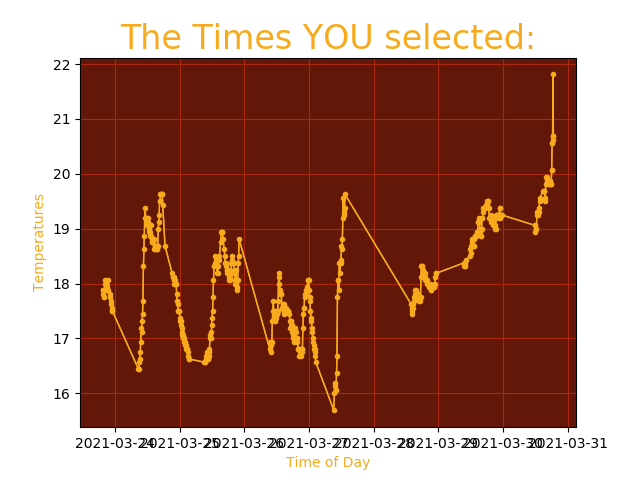
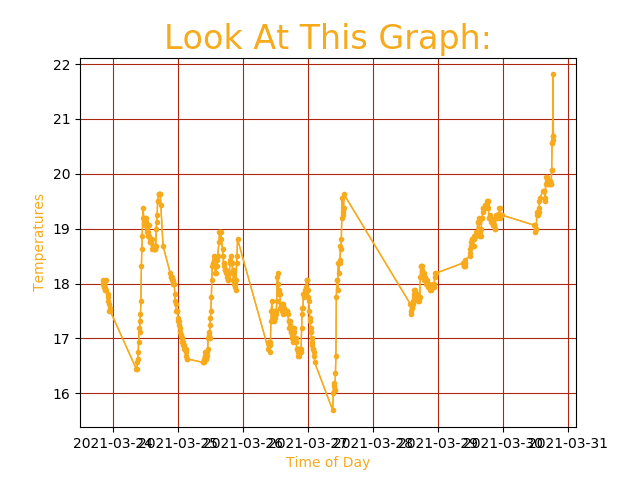
added fetch, emit and html for what the outside temperature feels like

diff --git a/static/application.js b/static/application.js
@@ -32,16 +32,18 @@ $(document).ready(function() {
     })
 
     socket.on('newoutsideTemp', function(msg) {
-       
-        console.log(msg.outsideTemp)
 
         img = "<p>The Temperature Outside is : " + msg.outsideTemp.toString() + '&#176; C </p>'         
-        
-
         $('#outside-log').html(img);
       
     
     })
- 
+
+    socket.on('newOutsideFeelsLike', function(msg){
+
+        outside = '<p> But outside it FEELS like : ' + msg.outsideFeelsLikeTemperature.toString() + '&#176; C </p>'
+        $('#outside-feel-log').html(outside)
+    })
+   
 })
 

diff --git a/templates/base.html b/templates/base.html
@@ -23,6 +23,7 @@
         <div id = "temp-flex"> the temperature is :  <div id="temp-log"></div> &#176; C
         </div></h1>
         <div id="outside-log"></div>
+        <div id="outside-feel-log"></div>
         <input type = "button" onclick="getHistoricalGraph()" value="Get All">
     <div id = "graph-log">
         

diff --git a/app.py b/app.py
@@ -1,15 +1,12 @@
-from flask_socketio import SocketIO, emit
-from flask import Flask, render_template, url_for, copy_current_request_context, jsonify
-from random import random
-from time import sleep
-from threading import Thread, Event
 from datetime import date, datetime, timedelta
-from w1thermsensor import W1ThermSensor
-from utils.database_service import add_temp, get_time_of_most_recent_temp, get_temps, get_timestamps, get_temperatures_from_range
-from testplotting import make_plot
-from markupsafe import escape
+from flask import Flask, render_template, url_for, copy_current_request_context, jsonify
+from flask_socketio import SocketIO, emit
 from graphmaker import make_plot_from_range
-from utils.open_weather_map_service import get_outside_temp
+from threading import Thread, Event
+from time import sleep
+from utils.database_service import add_temperature, get_time_of_most_recent_temperature, get_all_temperatures, get_all_timestamps, get_temperatures_from_range
+from utils.open_weather_map_service import get_outside_temp, get_outside_feels_like_temperature
+from w1thermsensor import W1ThermSensor
 
 app = Flask(__name__)
 app.config['SECRET_KEY'] = 'secret!'
@@ -32,8 +29,8 @@ def time_and_temp_background_task():
         socketio.emit('newTemperature', {'temperature' : temperature}, namespace='/test')
         socketio.emit('newTime', {'time' : str(timeNow)}, namespace='/test')
         
-        if (timeNow.minute % 10 == 0) and (timeNow.minute != get_time_of_most_recent_temp().minute):
-            add_temp(temperature, timeNow)
+        if (timeNow.minute % 10 == 0) and (timeNow.minute != get_time_of_most_recent_temperature().minute):
+            add_temperature(temperature, timeNow)
             graph = make_plot_from_range(get_last_7_days())
             if reloadGraph:
                 socketio.emit('newGraph', {'graph': graph}, namespace='/test')
@@ -83,8 +80,11 @@ def test_connect():
 
     print('Client connected')
 
-    graph = make_plot()
+    graph = make_plot_from_range(get_last_7_days())
     socketio.emit('newGraph', {'graph': graph}, namespace = '/test')
+
+    outsideFeelsLikeTemperature = get_outside_feels_like_temperature()
+    socketio.emit('newOutsideFeelsLike', {'outsideFeelsLikeTemperature': outsideFeelsLikeTemperature}, namespace='/test')
 
     outsideTemp = get_outside_temp()
     socketio.emit('newoutsideTemp', {'outsideTemp' :  outsideTemp}, namespace='/test')

diff --git a/utils/database_service.py b/utils/database_service.py
@@ -1,16 +1,11 @@
 import psycopg2
 from datetime import date, datetime
-from w1thermsensor import W1ThermSensor
 from typing import List, Tuple
-
-sensor = W1ThermSensor() 
 
 conn = psycopg2.connect('dbname=TempSense')
 cur = conn.cursor()
 
-
-
-def add_temp(temp, timestamp):
+def add_temperature(temp, timestamp):
     query = """
     INSERT INTO
         temp
@@ -34,7 +29,7 @@ def get_temperatures_from_range(startTime:datetime, endTime:datetime) -> List[Tu
     return cur.fetchall()
 
 
-def get_time_of_most_recent_temp():
+def get_time_of_most_recent_temperature():
     query = """
     SELECT timestamp FROM 
         temp
@@ -46,7 +41,7 @@ def get_time_of_most_recent_temp():
     return cur.fetchall()[0][0]
 
 
-def get_temps():
+def get_all_temperatures():
     query = """
     SELECT 
         temp
@@ -57,7 +52,7 @@ def get_temps():
     return cur.fetchall()
 
 
-def get_timestamps():
+def get_all_timestamps():
     query = """
     SELECT 
         timestamp
@@ -66,37 +61,3 @@ def get_timestamps():
     """
     cur.execute(query)
     return cur.fetchall()
-
-def temp_list():
-    new_list = []
-    temps_list = get_temps()
-
-    for temps in temps_list:
-        new_list.append(float(temps[0]))
-    return new_list
-
-
-def timestamp_list():
-    new_list = []
-    timestamps = get_timestamps()
-
-    for times in timestamps:
-        new_list.append(times[0].strftime("%x") + " " + times[0].strftime("%X"))
-    return new_list
-
-
-
-temp = sensor.get_temperature()
-timestamp = datetime.now().replace(microsecond=0)
-
-# add_temp(temp, timestamp)
-
-cur.execute('select * from temp')
-results = cur.fetchall()
-
-
-timestr = '2021-03-23T17:38'
-datetime_obj = datetime.strptime(timestr, '%Y-%m-%dT%H:%M')
-
-# for result in results:
-#     print(result)

diff --git a/utils/open_weather_map_service.py b/utils/open_weather_map_service.py
@@ -5,3 +5,9 @@ def get_outside_temp():
     url = 'https://api.openweathermap.org/data/2.5/weather?id=2648579&appid=ab3b10ceeb32e9e2635906ef718eec7f&units=metric'
     response = reqs.get(url, data)
     return response.json()['main']['temp']
+
+def get_outside_feels_like_temperature():
+    data = {}
+    url = 'https://api.openweathermap.org/data/2.5/weather?id=2648579&appid=ab3b10ceeb32e9e2635906ef718eec7f&units=metric'
+    response = reqs.get(url, data)
+    return response.json()['main']['feels_like']

diff --git a/graphmaker.py b/graphmaker.py
@@ -29,7 +29,7 @@ def make_plot_from_range(temperatureHistory: list):
 
     plt.plot(y, x, color= '#F6AA1C', lw=1)
 
-    plt.title('The Times YOU selected:', color= '#F6AA1C')
+    plt.title('Look At This Graph:', color= '#F6AA1C')
     plt.ylabel('Temperatures', color= '#F6AA1C')
     plt.xlabel('Time of Day', color= '#F6AA1C')
     plt.grid(b=True, color='#AA280E')
